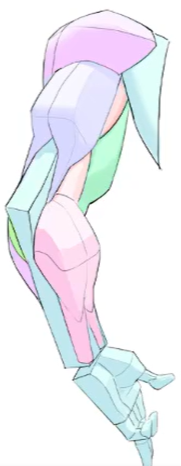
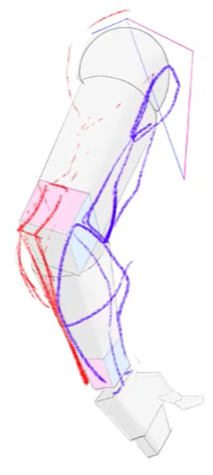
update

diff --git a/source/_posts/tenten人体17期-Week4：上肢结构.md b/source/_posts/tenten人体17期-Week4：上肢结构.md
@@ -85,19 +85,26 @@ tags:
 除此之外还要注意手臂弯曲时肱二头肌比较饱满，伸直时肱三头肌比较饱满。
 
 # 小臂肌肉
-小臂肌肉从肱桡肌开始，肱桡肌从肱肌下面开始。从肱肌出发，先向后绕方块一圈，然后反弧度连到大拇指内侧的位置，凸点在上半部分。然后补全伸肌群，连接到手背方块处。接着同样补上手肘的结构，连接到小拇指靠上的位置。最后再添加屈肌群，凸点和伸肌群错开，相对低一点，但同样在上半部分。
+小臂肌肉从肱桡肌开始，肱桡肌从肱肌下面开始。从肱肌出发，先向后绕方块一圈，然后反弧度连到大拇指内侧的位置，凸点在上半部分。然后补全伸肌群，连接到手背方块处。接着同样补上手肘的结构，连接到小拇指靠上的位置。最后再添加屈肌群，凸点和伸肌群错开，相对低一点、厚一点，但同样在上半部分。
 
 <figure style="text-align: center;">
 <img src="/illustrations/tenten人体-Week4/12.png" alt="小臂肌肉" width="40%">
 <figcaption>小臂肌肉</figcaption>
 </figure>
 
-这个角度看屈肌群更加明显，这里的凸起其实就是我们关节球的卡扣。这里有两个需要注意的点，一个是它被肱肌挤压，所以括号会比较靠后；另一个是它会遮挡一部分手肘，导致手肘下面看上去是倒三角形。
+尽管如此，如果这个人足够瘦，屈肌几乎是平的，那关节的凸起反而变成了骨点的位置，导致看上去似乎屈肌凸点更靠上：
+
+<figure style="text-align: center;">
+<img src="/illustrations/tenten人体-Week4/13.png" alt="特例" width="25%">
+<figcaption>特例</figcaption>
+</figure>
+
+这个角度看可以看到屈肌群更加明显的结构，有两个需要注意的点：一个是它被肱肌挤压，所以括号会比较靠外；另一个是它会遮挡一部分手肘，导致手肘下面看上去是倒三角形。
 
 <figure style="text-align: center;">
 <div style="display: flex; justify-content: center; align-items: center; gap: 30px;">
-<img src="/illustrations/tenten人体-Week4/13.png" alt="屈肌群结构" style="width: 16%; margin: 0 0 20px;">
-<img src="/illustrations/tenten人体-Week4/14.png" alt="屈肌群结构" style="width: 13%; margin: 0 0 20px;">
+<img src="/illustrations/tenten人体-Week4/14.png" alt="屈肌群结构" style="width: 16%; margin: 0 0 20px;">
+<img src="/illustrations/tenten人体-Week4/15.png" alt="屈肌群结构" style="width: 13%; margin: 0 0 20px;">
 </div>
 <figcaption>屈肌群结构</figcaption>
 </figure>
@@ -105,18 +112,20 @@ tags:
 然后来看肱桡肌更加具体的点位。肱桡肌从方块上面两指左右出发，向后包裹住方块，然后马上绕圆柱体转到大拇指内侧。
 <figure style="text-align: center;">
 <div style="display: flex; justify-content: center; align-items: center; gap: 30px;">
-<img src="/illustrations/tenten人体-Week4/15.png" alt="肱桡肌起始点" style="width: 30%; margin: 0 0 20px;">
-<img src="/illustrations/tenten人体-Week4/16.png" alt="肱桡肌结束点" style="width: 35%; margin: 0 0 20px;">
+<img src="/illustrations/tenten人体-Week4/16.png" alt="肱桡肌起始点" style="width: 30%; margin: 0 0 20px;">
+<img src="/illustrations/tenten人体-Week4/17.png" alt="肱桡肌结束点" style="width: 35%; margin: 0 0 20px;">
 </div>
 <figcaption>肱桡肌结构</figcaption>
 </figure>
+
+至此我们也可以知道手臂的卡扣实际上是外侧的肱桡肌和内侧的伸肌群。
 
 再是伸肌群和屈肌群更加具体的形态。伸肌群实际上有很多束，我们一般只画两束，形状还是常见的闪电形，连接到手背。然后多出一块绿色的肘肌，遮挡一部分手肘。屈肌群类似也只画两束，闪电形连接到手心。屈肌群在大拇指部分被伸肌群挤压了一部分体积，在内侧就会额外占用一部分空间。
 
 <figure style="text-align: center;">
 <div style="display: flex; justify-content: center; align-items: center; gap: 30px;">
-<img src="/illustrations/tenten人体-Week4/17.png" alt="伸肌群结构" style="width: 11%; margin: 0 0 20px;">
-<img src="/illustrations/tenten人体-Week4/18.png" alt="屈肌群结构" style="width: 18%; margin: 0 0 20px;">
+<img src="/illustrations/tenten人体-Week4/18.png" alt="伸肌群结构" style="width: 11%; margin: 0 0 20px;">
+<img src="/illustrations/tenten人体-Week4/19.png" alt="屈肌群结构" style="width: 18%; margin: 0 0 20px;">
 </div>
 <figcaption>伸肌群和屈肌群</figcaption>
 </figure>
